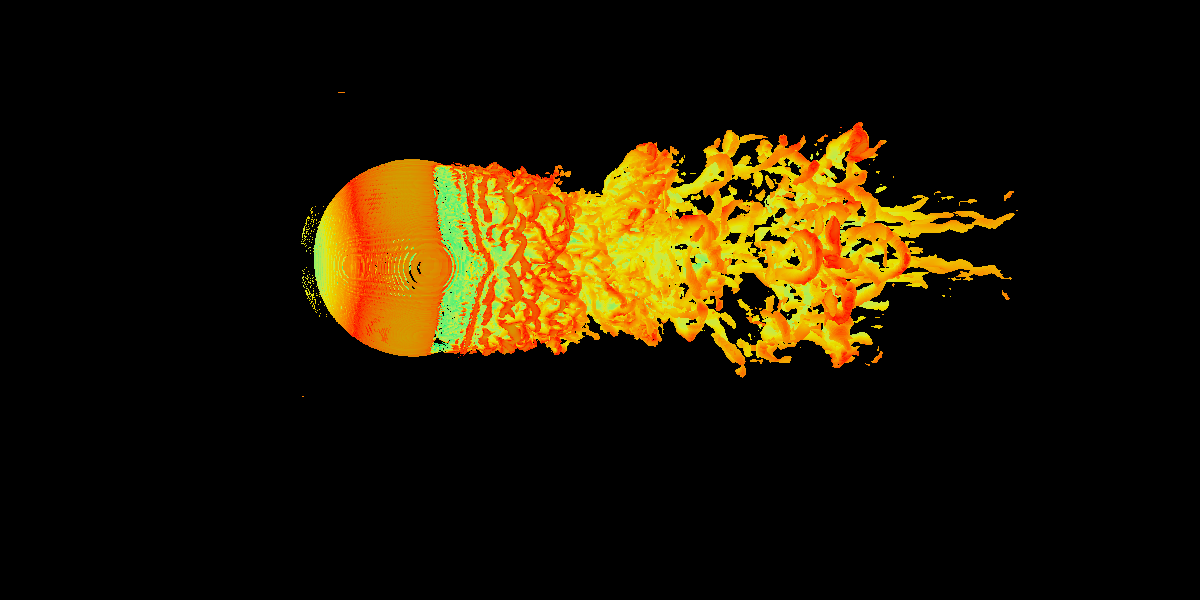
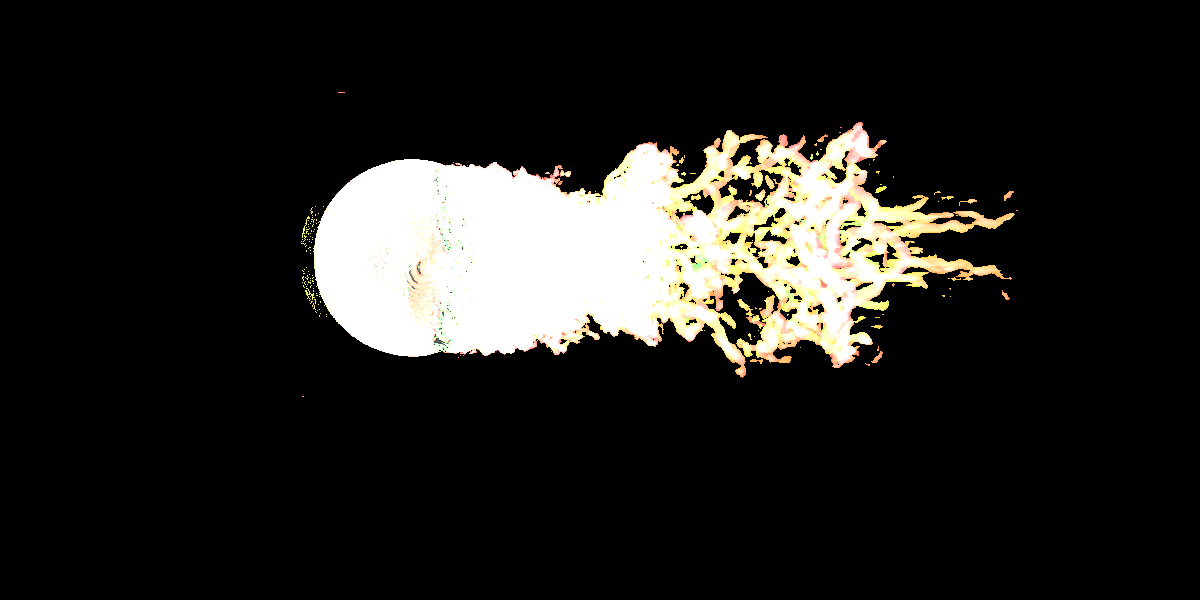
AABB

Changed region(s): [[0.2467, 0.21, 0.8633, 0.63]]

diff --git a/src/integrator.cpp b/src/integrator.cpp
@@ -53,7 +53,7 @@ Vec3f Integrator::radiance(Ray &ray, float t0, float t1) const {
         std::tie(src_color, src_opacity, layer) = scene->getEmissionOpacity(src_pos);
 
         if (layer != -1) {
-            step_size = (float) (scene->moduleGrids[layer]->transform().voxelSize()[0]) / 2;
+            step_size = scene->grids[layer].dx / 2;
             accessor = scene->moduleGrids[layer]->getAccessor();
         }
         src_opacity = (float) (1.0 - std::pow(1 - src_opacity, step_size));

diff --git a/src/main.cpp b/src/main.cpp
@@ -23,6 +23,7 @@ int main() {
     scene.setVectorGrids(VectorGrids);
     scene.genQGrids();
     scene.setSphere(sphere);
+    scene.setLight(Vec3f{10, -5, 0}, Vec3f{1, 1, 1});
     Integrator integrator(std::make_shared<Camera>(cam), std::make_shared<Scene>(scene));
     std::cout << "Start Rendering..." << std::endl;
     auto start = std::chrono::steady_clock::now();
